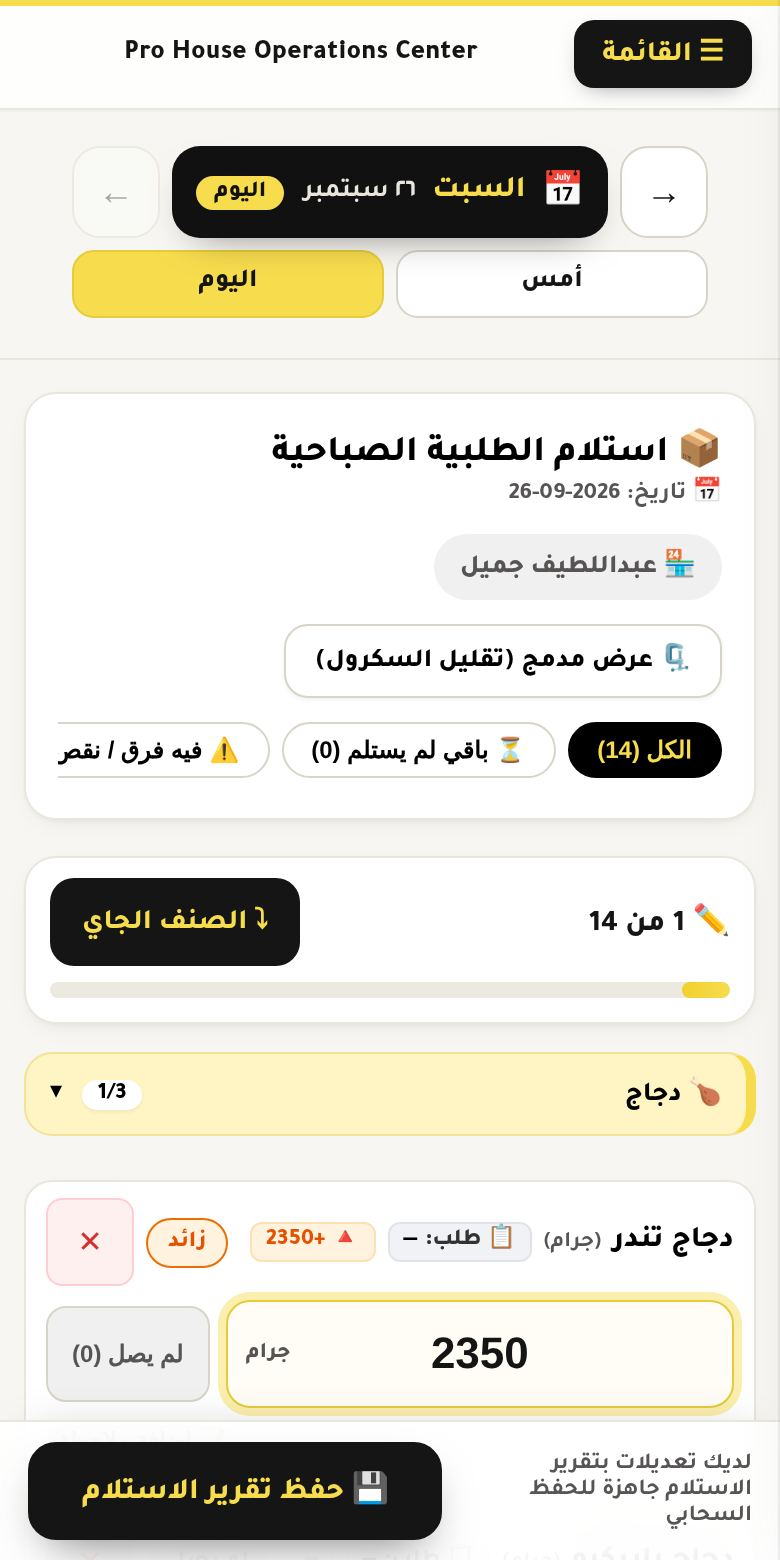
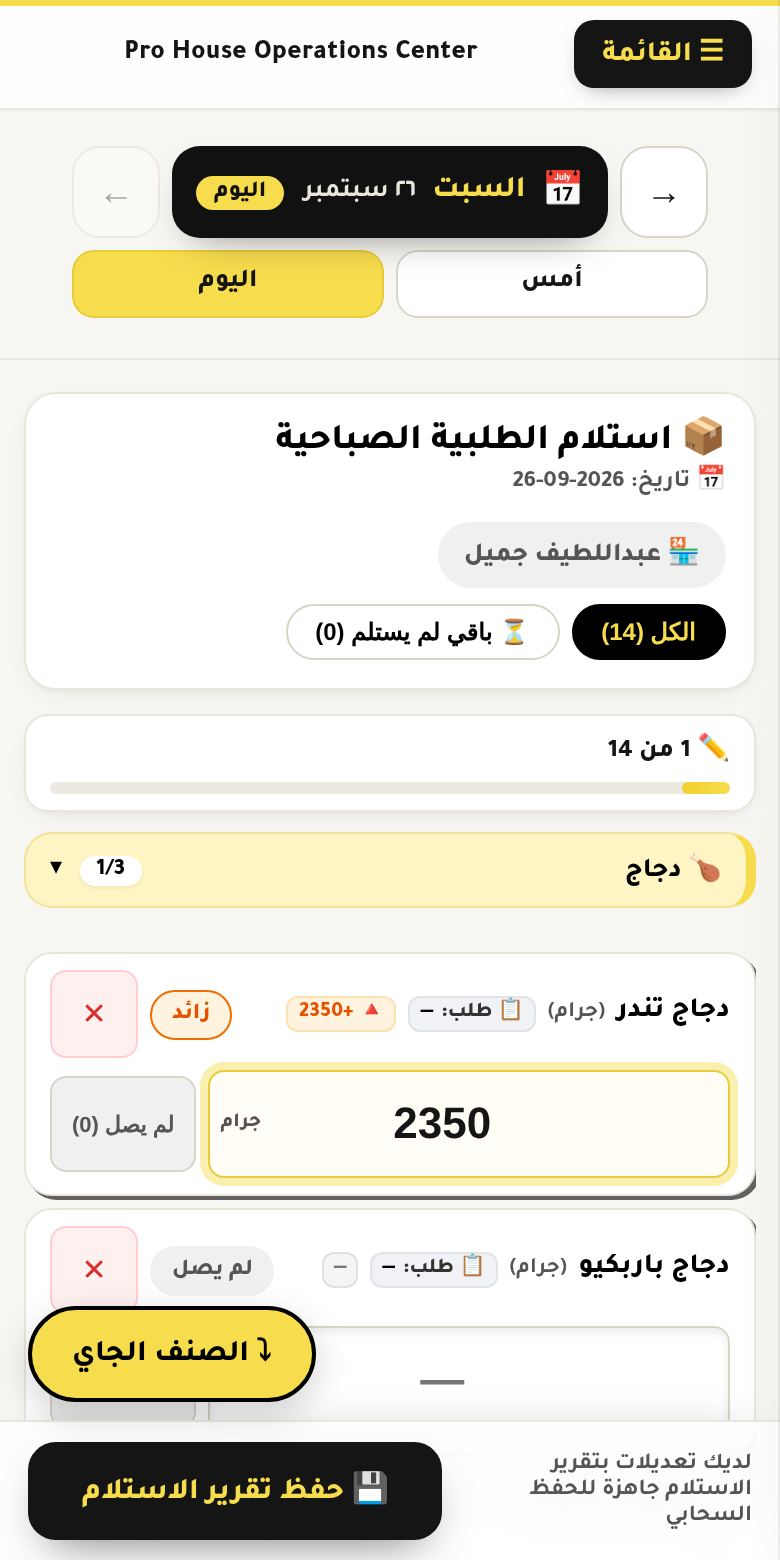
Remaining screen: two-row item cards, slimmer headers; refresh guide screenshots
- Item card: name + small buttons on one row, big entry box + 0 + sauce on the second (about a third of the old height)
- Slimmer category header and sticky progress bar
- Guide screenshots retaken with the new compact UI
- Asset version 5.27.2

Claude-Session: https://claude.ai/code/session_01DZQHjttSxnt2L16qT6fNrU

Changed region(s): [[0.0308, 0.2462, 0.9846, 0.9231]]

diff --git a/css/style.css b/css/style.css
@@ -3197,3 +3197,32 @@ html[dir="ltr"] .sidebar-nav .tab-btn { white-space: normal; }
 .home-help-link { display: block; text-align: center; margin: 12px 0 0; padding: 12px; border-radius: 14px; border: 1.5px dashed var(--line-strong, #d8d3c4); font-weight: 800; font-size: 14px; color: inherit; text-decoration: none; background: transparent; width: 100%; font-family: inherit; cursor: pointer; }
 /* مساحة تحت آخر صنف عشان زر "الصنف الجاي" العائم ما يغطيه */
 #receivingView::after, #remainingView::after { content: ""; display: block; height: 70px; }
+
+/* ==================== بطاقة المتبقي: سطرين بس (اسم + أزرار صغيرة / خانة الإدخال) ==================== */
+#remainingView .remaining-card-mobile { padding: 10px 12px; margin-bottom: 8px; gap: 6px; box-shadow: 0 1px 0 rgba(0,0,0,.08); border: 1px solid var(--line-strong, #d8d3c4); border-radius: 14px; }
+#remainingView .rem-single-row { display: grid; grid-template-columns: minmax(0, 1fr) auto; grid-template-areas: "info actions" "inputs inputs"; gap: 8px; align-items: center; }
+#remainingView .rem-info-group { grid-area: info; min-width: 0; gap: 4px 6px; }
+#remainingView .rem-item-name { font-size: 15px; font-weight: 900; }
+#remainingView .rem-item-unit { font-size: 11px; color: var(--gray); }
+#remainingView .rem-inline-actions { grid-area: actions; display: flex; gap: 6px; }
+#remainingView .rem-inline-actions button { min-width: 36px; min-height: 36px; height: 36px; padding: 0 8px; border-radius: 10px; font-size: 14px; display: inline-flex; align-items: center; justify-content: center; }
+#remainingView .rem-inputs-group { grid-area: inputs; display: flex; flex-wrap: nowrap; gap: 8px; align-items: stretch; }
+#remainingView .rem-inline-input-group.protein { flex: 1; display: flex; gap: 8px; padding: 0; background: none; border: 0; }
+#remainingView .rem-mini-input-wrap { flex: 1; display: flex; }
+#remainingView .rem-mini-input { width: 100%; height: 50px; min-height: 50px; padding: 0 12px; padding-inline-end: 56px; border-radius: 12px; border: 1.5px solid var(--line-strong, #d8d3c4); font-size: 20px !important; }
+#remainingView .rem-mini-input.border-green { border-color: var(--green); }
+#remainingView .rem-mini-unit { left: auto; right: auto; inset-inline-end: 12px; top: 50%; transform: translateY(-50%); font-size: 12px; }
+#remainingView .rem-mini-zero-btn { height: 50px; min-width: 50px; border-radius: 12px; border: 1.5px solid var(--line-strong, #d8d3c4); font-size: 16px; }
+#remainingView .rem-btn-sauce-toggle { height: 50px; padding: 0 12px; border-radius: 12px; border: 1.5px solid var(--line-strong, #d8d3c4); font-size: 13px; }
+#remainingView .rem-btn-sauce-toggle.active { border-color: var(--black); }
+/* شريط التقدم أنحف عشان ما يغطي الشاشة وهو ثابت فوق */
+.entry-progress { padding: 8px 12px; margin-bottom: 10px; border-radius: 12px; }
+.entry-progress-top { margin-bottom: 6px; }
+.entry-progress-text { font-size: 13px; }
+.entry-progress-track { height: 6px; }
+#remainingView .rem-inline-actions .rem-mini-note-btn { border: 1px solid var(--line-strong, #d8d3c4); background: #fff; }
+#remainingView .rem-inline-actions .rem-mini-note-btn.has-notes { background: #FFF6CC; border-color: #E6CB3A; }
+/* رأس التصنيف بالمتبقي أصغر */
+#remainingView .category-header { padding: 10px 12px; margin-bottom: 8px; }
+#remainingView .category-header .cat-title { margin: 0; padding: 0; background: none; border: 0; box-shadow: none; font-size: 16px; font-weight: 900; }
+#remainingView .cat-metrics-bar { margin-top: 6px; gap: 6px; }

diff --git a/index.html b/index.html
@@ -12,7 +12,7 @@
 <link rel="manifest" href="./manifest.json">
 <link rel="icon" type="image/png" sizes="192x192" href="assets/icon-192.png">
 <link rel="apple-touch-icon" sizes="180x180" href="assets/apple-touch-icon.png">
-<link rel="stylesheet" href="css/style.css?v=5.27.0">
+<link rel="stylesheet" href="css/style.css?v=5.27.2">
 <script>
 // الشغل بدون نت انلغى: منشيل الـ Service Worker القديم (sw.js) ومنمسح ملفاته لحتى الجهاز يجيب أحدث نسخة دايماً.
 // عامل الإشعارات (push-sw.js) ما بيخزّن شي، فمنخليه.
@@ -390,34 +390,34 @@ if ('caches' in window) {
 
 <div class="toast" id="toast"></div>
 
-<script src="js/demo.js?v=5.27.0"></script>
-<script src="js/config.js?v=5.27.0"></script>
-<script src="js/i18n.js?v=5.27.0"></script>
-<script src="js/supabase-engine.js?v=5.27.0"></script>
-<script src="js/shared.js?v=5.27.0"></script>
-<script src="js/pickers.js?v=5.27.0"></script>
-<script src="js/auth.js?v=5.27.0"></script>
-<script src="js/sync.js?v=5.27.0"></script>
-<script src="js/items.js?v=5.27.0"></script>
-<script src="js/camera.js?v=5.27.0"></script>
-<script src="js/branches.js?v=5.27.0"></script>
-<script src="js/receiving.js?v=5.27.0"></script>
-<script src="js/remaining.js?v=5.27.0"></script>
-<script src="js/custody.js?v=5.27.0"></script>
-<script src="js/push.js?v=5.27.0"></script>
-<script src="js/ptr.js?v=5.27.0"></script>
-<script src="js/waste.js?v=5.27.0"></script>
-<script src="js/users.js?v=5.27.0"></script>
-<script src="js/audit.js?v=5.27.0"></script>
-<script src="js/forecast.js?v=5.27.0"></script>
-<script src="js/tomorrow.js?v=5.27.0"></script>
-<script src="js/juices.js?v=5.27.0"></script>
-<script src="js/checklist.js?v=5.27.0"></script>
-<script src="js/report.js?v=5.27.0"></script>
-<script src="js/settings.js?v=5.27.0"></script>
-<script src="js/help.js?v=5.27.0"></script>
-<script src="js/dashboard.js?v=5.27.0"></script>
-<script src="js/main.js?v=5.27.0"></script>
+<script src="js/demo.js?v=5.27.2"></script>
+<script src="js/config.js?v=5.27.2"></script>
+<script src="js/i18n.js?v=5.27.2"></script>
+<script src="js/supabase-engine.js?v=5.27.2"></script>
+<script src="js/shared.js?v=5.27.2"></script>
+<script src="js/pickers.js?v=5.27.2"></script>
+<script src="js/auth.js?v=5.27.2"></script>
+<script src="js/sync.js?v=5.27.2"></script>
+<script src="js/items.js?v=5.27.2"></script>
+<script src="js/camera.js?v=5.27.2"></script>
+<script src="js/branches.js?v=5.27.2"></script>
+<script src="js/receiving.js?v=5.27.2"></script>
+<script src="js/remaining.js?v=5.27.2"></script>
+<script src="js/custody.js?v=5.27.2"></script>
+<script src="js/push.js?v=5.27.2"></script>
+<script src="js/ptr.js?v=5.27.2"></script>
+<script src="js/waste.js?v=5.27.2"></script>
+<script src="js/users.js?v=5.27.2"></script>
+<script src="js/audit.js?v=5.27.2"></script>
+<script src="js/forecast.js?v=5.27.2"></script>
+<script src="js/tomorrow.js?v=5.27.2"></script>
+<script src="js/juices.js?v=5.27.2"></script>
+<script src="js/checklist.js?v=5.27.2"></script>
+<script src="js/report.js?v=5.27.2"></script>
+<script src="js/settings.js?v=5.27.2"></script>
+<script src="js/help.js?v=5.27.2"></script>
+<script src="js/dashboard.js?v=5.27.2"></script>
+<script src="js/main.js?v=5.27.2"></script>
 <script>
   // أزرار اللغة (عربي / English / বাংলা)
   ["loginLangSlot", "menuLangSlot"].forEach(id => { const el = document.getElementById(id); if (el) el.innerHTML = phLangSwitcherHtml(); });

diff --git a/js/remaining.js b/js/remaining.js
@@ -641,12 +641,17 @@ function renderRemainingView(receivingData, salesData) {
                 <span class="rec-meta-chip diff-red" title="انحراف">⚠ ${itemVarianceText}</span>
               ` : ''}
             </div>
+            <!-- الإجراءات (ملاحظة وحذف) -->
+              <div class="rem-inline-actions">
+                <button type="button" class="rem-waste-btn ${remainingWasteFor(it.id) ? 'has-waste' : ''}" ${isClosed ? 'disabled' : ''} onclick="openRemainingWaste('${it.id}')" title="تسجيل هدر">🗑${remainingWasteFor(it.id) ? ` ${Math.round(remainingWasteFor(it.id))}` : ''}</button>
+                <button type="button" class="rem-mini-note-btn ${remData.notes ? 'has-notes' : ''}" onclick="toggleRemainingNote('${it.id}')" title="ملاحظة">📝</button>
+                <button type="button" class="rec-btn-remove" onclick="onRemoveRemainingItem('${it.id}', '${String(it.name).replace(/'/g, "\\'")}')" title="استبعاد الصنف">✕</button>
+              </div>
 
             <!-- خانات الإدخال المدمجة بصف واحد -->
             <div class="rem-inputs-group">
               <!-- خانة وزن أو عدد المتبقي -->
               <div class="rem-inline-input-group protein">
-                <span class="rem-field-label">${remFieldIconLabel}</span>
                 <div class="rem-mini-input-wrap">
                   <input type="number" step="any" min="0" inputmode="decimal"
                          id="remweight-${it.id}"
@@ -673,12 +678,6 @@ function renderRemainingView(receivingData, salesData) {
                 </button>
               ` : ''}
 
-              <!-- الإجراءات (ملاحظة وحذف) -->
-              <div class="rem-inline-actions">
-                <button type="button" class="rem-waste-btn ${remainingWasteFor(it.id) ? 'has-waste' : ''}" ${isClosed ? 'disabled' : ''} onclick="openRemainingWaste('${it.id}')" title="تسجيل هدر">🗑${remainingWasteFor(it.id) ? ` ${Math.round(remainingWasteFor(it.id))}` : ''}</button>
-                <button type="button" class="rem-mini-note-btn ${remData.notes ? 'has-notes' : ''}" onclick="toggleRemainingNote('${it.id}')" title="ملاحظة">📝</button>
-                <button type="button" class="rec-btn-remove" onclick="onRemoveRemainingItem('${it.id}', '${String(it.name).replace(/'/g, "\\'")}')" title="استبعاد الصنف">✕</button>
-              </div>
             </div>
           </div>
 

diff --git a/js/i18n.js b/js/i18n.js
@@ -31,7 +31,7 @@ if (PhLang !== "ar") {
   document.documentElement.lang = PhLang;
   document.documentElement.dir = "ltr";
   // القاموس بينحمّل بس لما تكون اللغة مش عربي
-  document.write('<script src="js/i18n-dict.js?v=5.27.0"><\/script>');
+  document.write('<script src="js/i18n-dict.js?v=5.27.2"><\/script>');
   if (PhLang === "bn") document.write('<link rel="stylesheet" href="https://fonts.googleapis.com/css2?family=Noto+Sans+Bengali:wght@400;600;700;800&display=swap">');
 }
 
